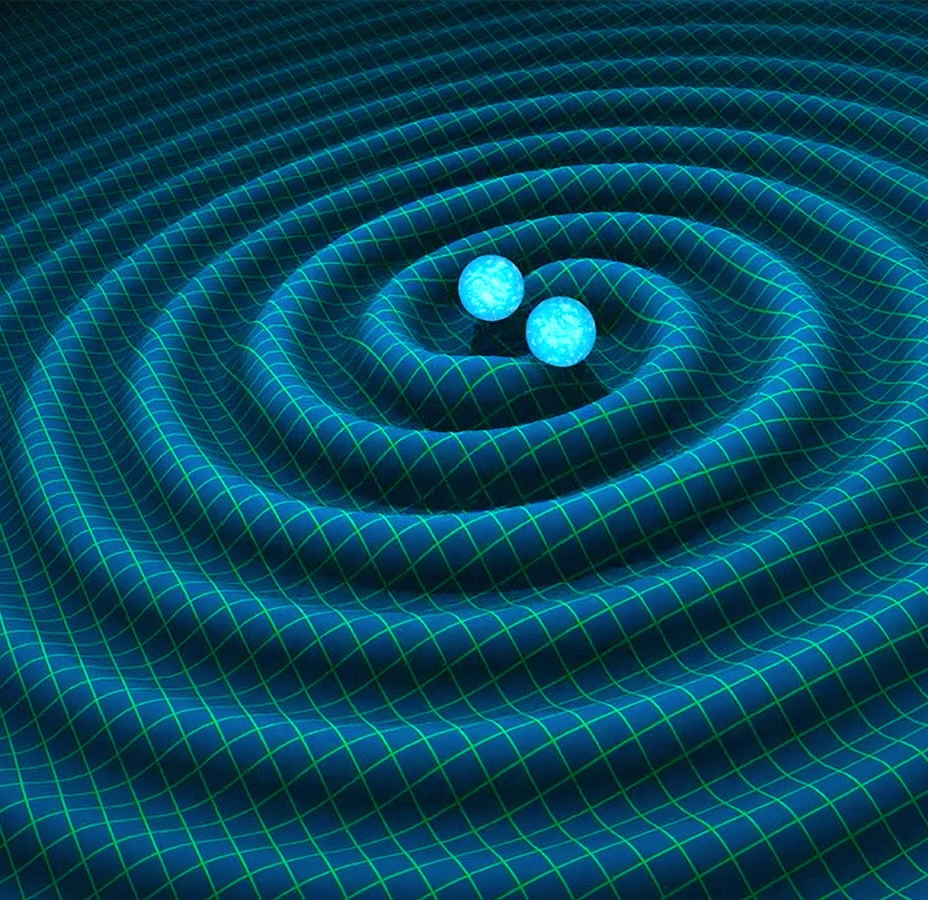
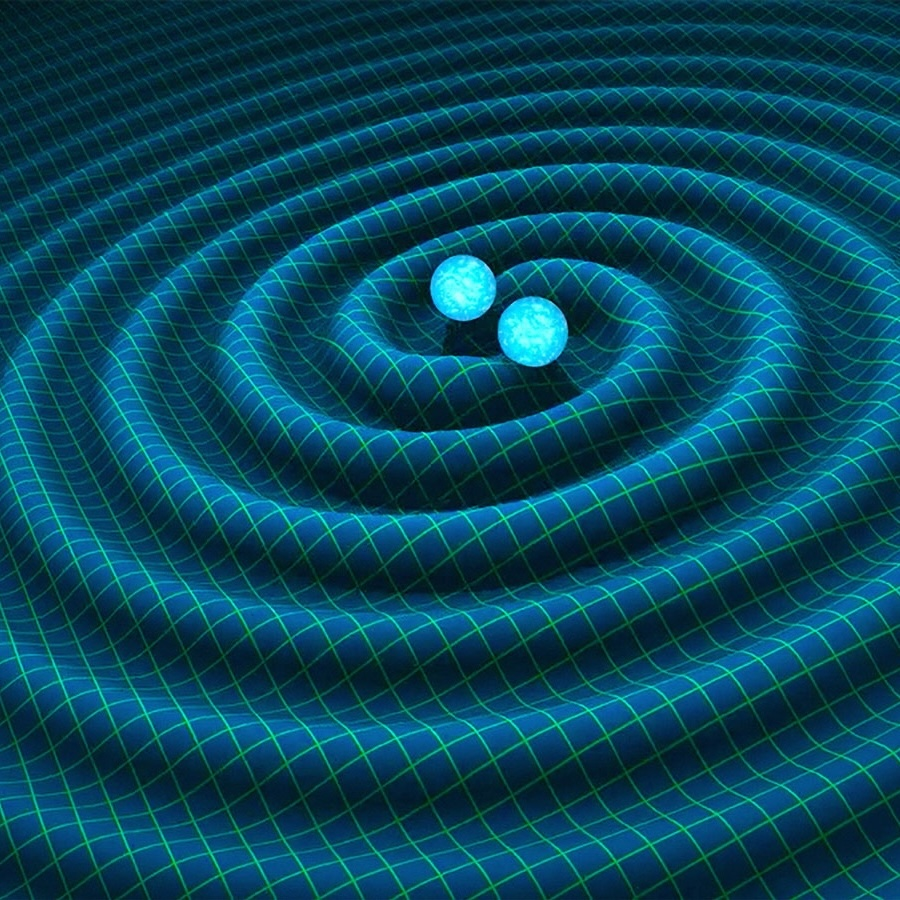
fixing tile layout

diff --git a/_sass/my-style.scss b/_sass/my-style.scss
@@ -66,16 +66,29 @@ body {
 // grid layout for projects styling
 .tile-grid {
   display: grid;
-  grid-template-columns: repeat(auto-fit, minmax(200px, 1fr));
+  grid-template-columns: repeat(auto-fit, minmax(160px, 1fr));
   gap: 1.5rem;
 }
+
+.tile {
+  display: flex;              // stack children vertically instead of inline flow
+  flex-direction: column;
+  text-decoration: none;
+  color: inherit;
+}
+
 .tile img {
   width: 100%;
+  aspect-ratio: 1 / 1;        // forces every image to the same shape (square)
+  object-fit: cover;          // crops to fill that shape without stretching/distorting
   border-radius: 8px;
+  display: block;             // removes the small inline-image gap browsers add by default
 }
+
 .tile span {
-  display: block;
+  display: block;             // ensures it's on its own line under the image (belt-and-suspenders with flex above)
   text-align: center;
   margin-top: 0.5rem;
+  font-size: 0.95rem;
 }
 

diff --git a/Research/index.md b/Research/index.md
@@ -13,7 +13,7 @@ hide_description: True
         <img src="/assets/img/research/reconnection.png" alt="Magnetic reconnection">
         <span>Magnetic reconnection in resistive MHD</span>
     </a>
-    <a href="/research/giant-pulses/" class="tile">
+    <a href="/research/giant-pulse/" class="tile">
         <img src="/assets/img/research/neutron_star.png" alt="Giant pulses">
         <span>Crab pulsar giant pulses</span>
     </a>